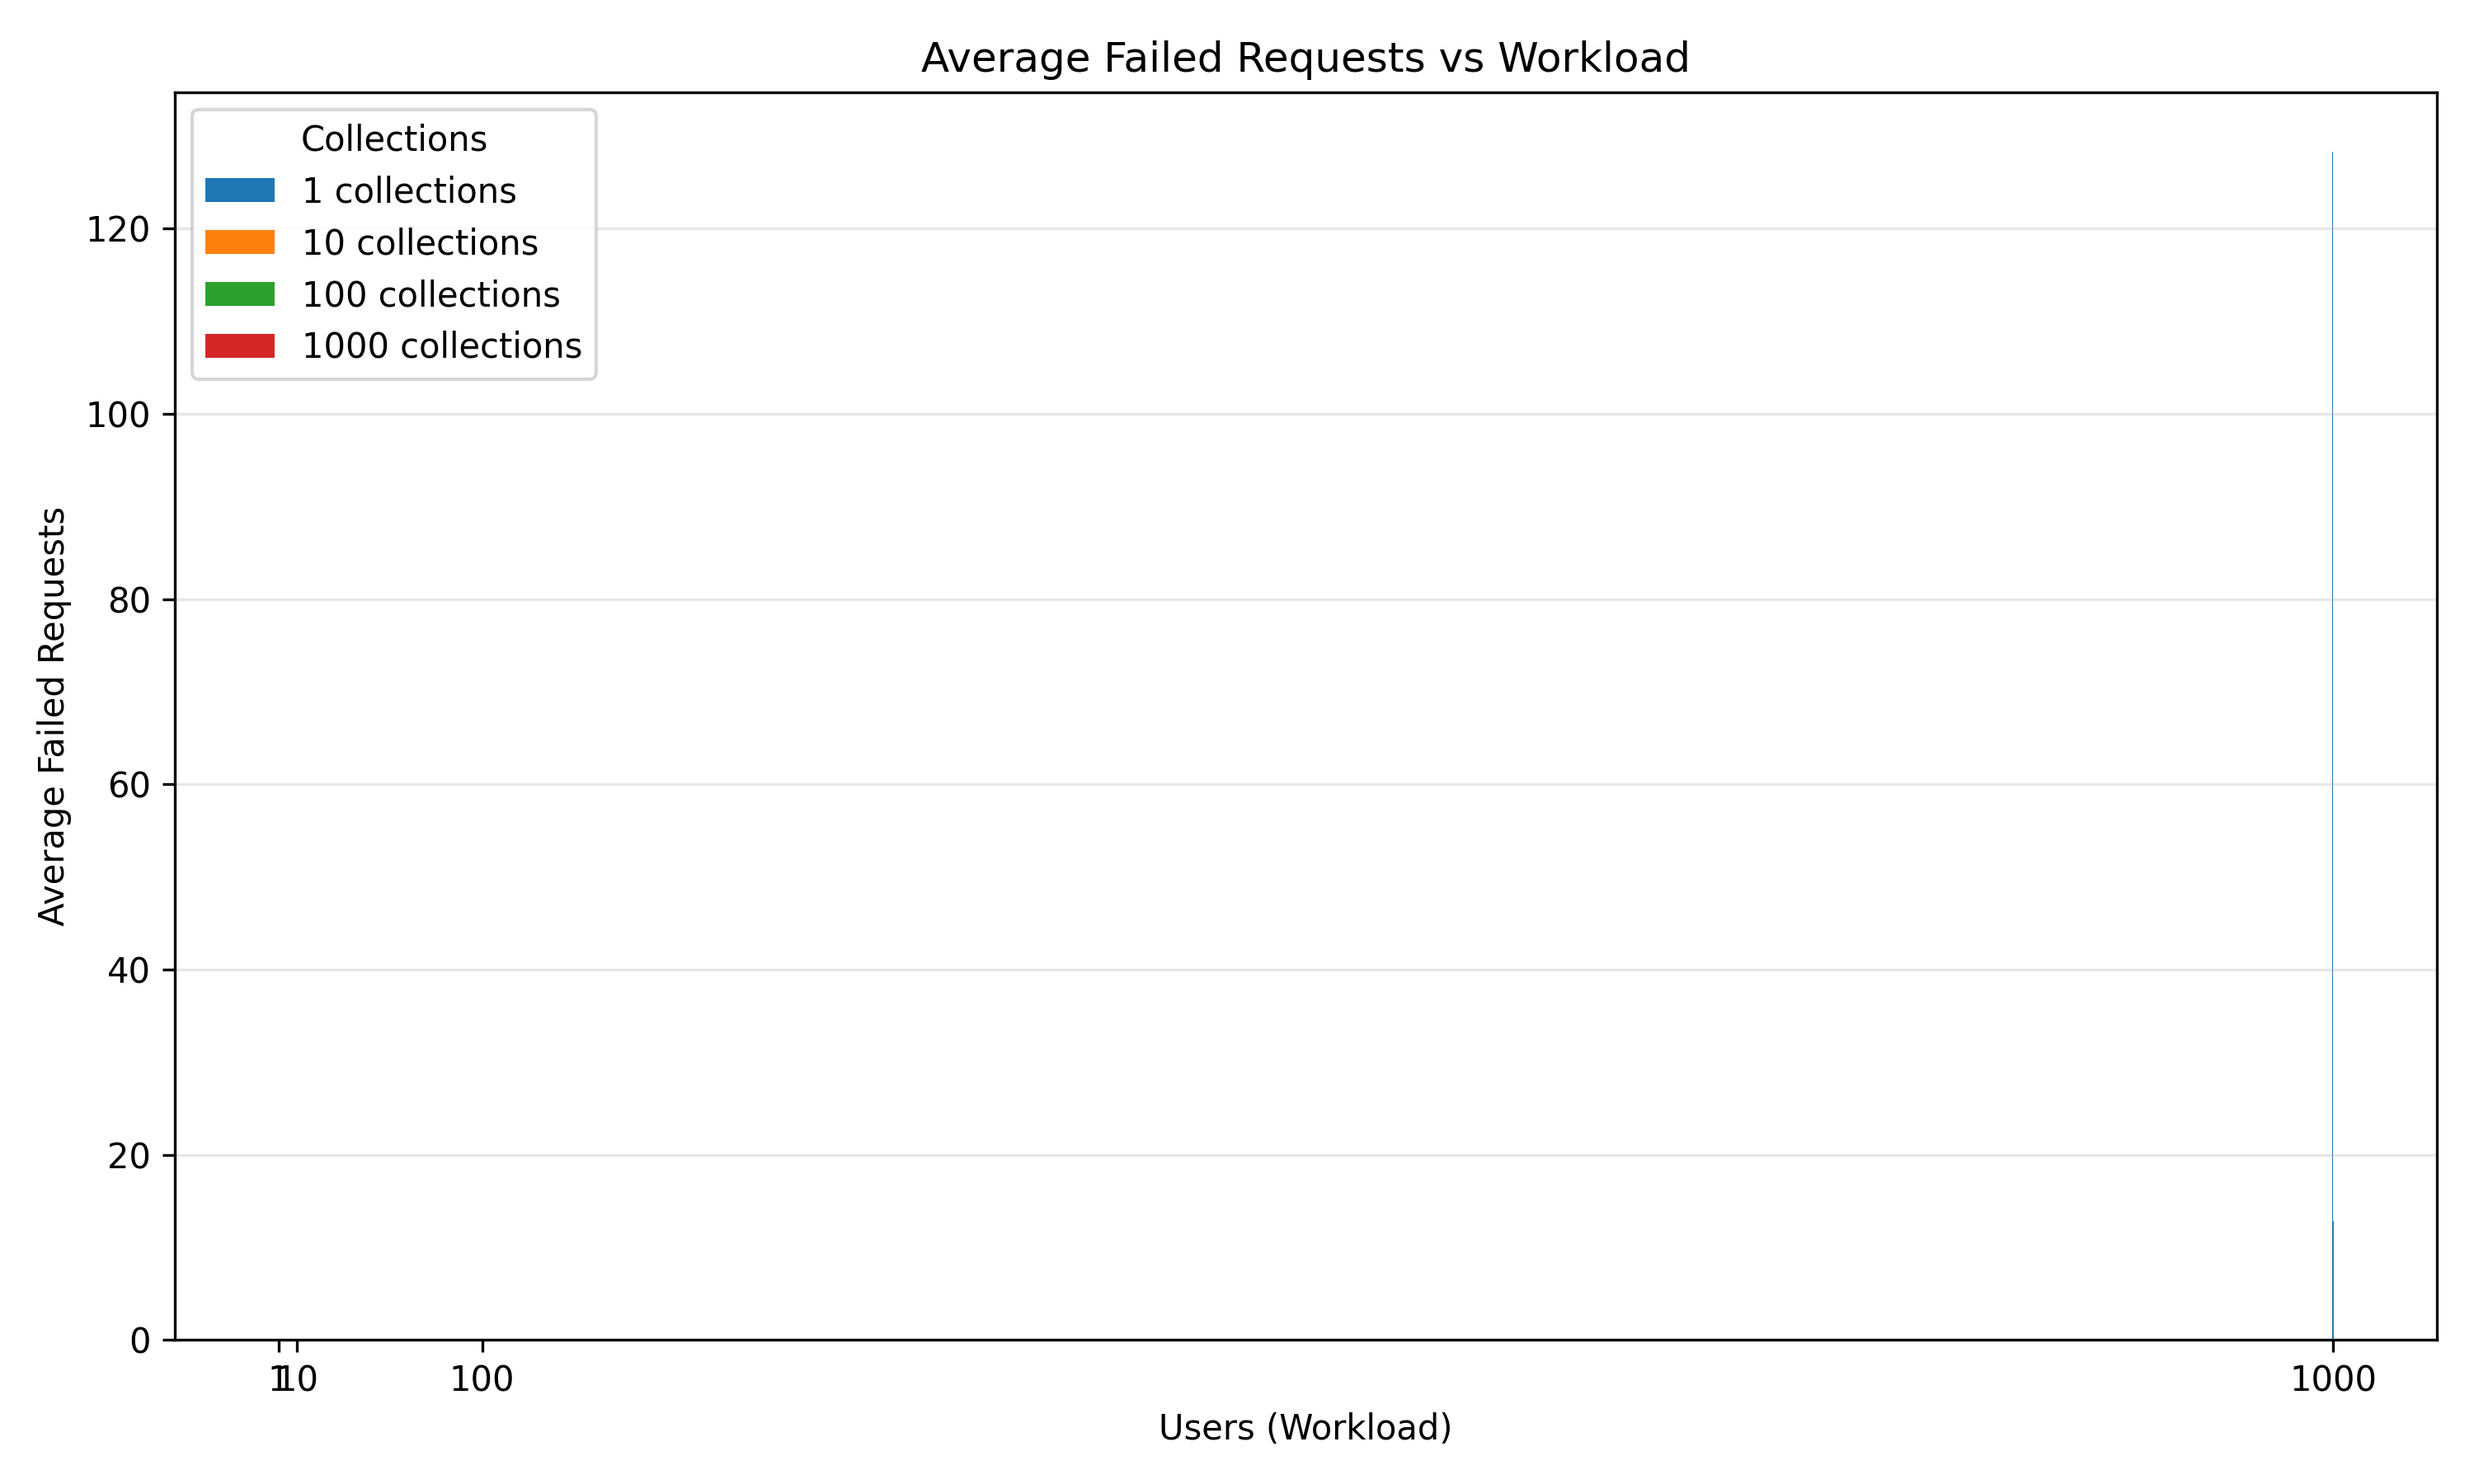
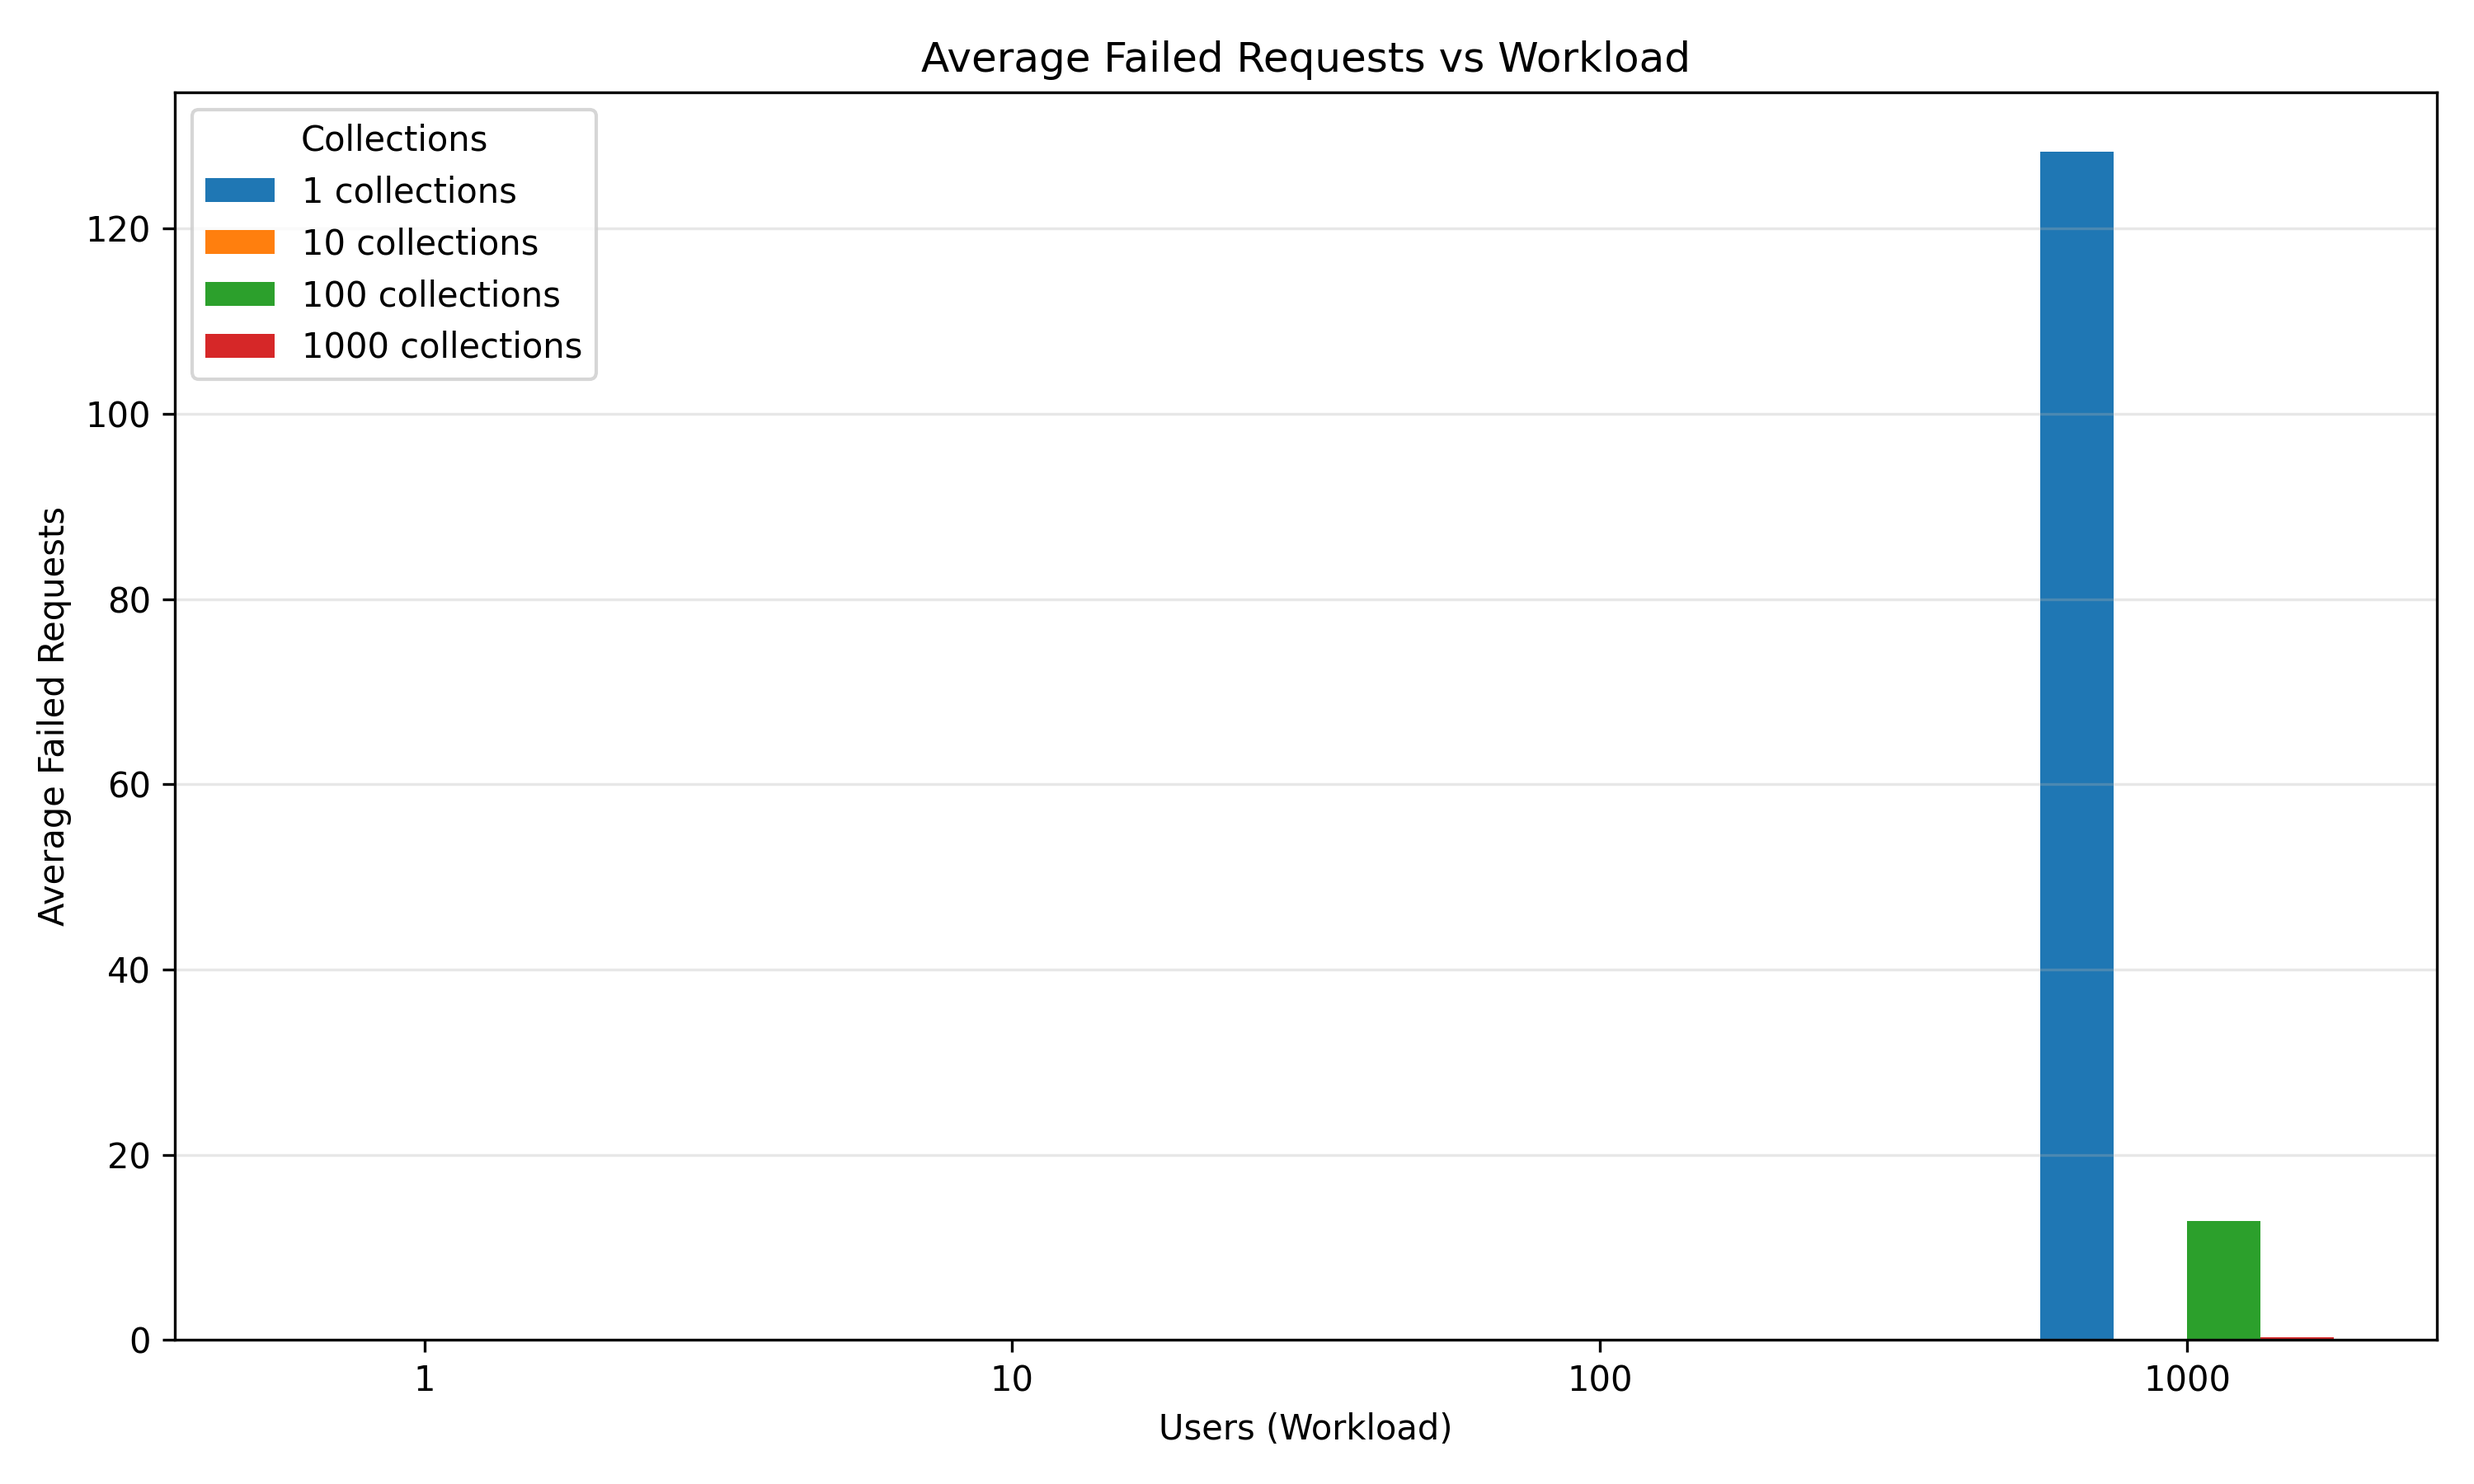
Fix failed request plot

diff --git a/ermes_benchmark/micro_bench/graph_generator.py b/ermes_benchmark/micro_bench/graph_generator.py
@@ -257,33 +257,39 @@ def plot_interaction_with_iqr_q2(aggregated_data, save_path=None):
 
 
 def plot_failed_requests_bar(aggregated_data, save_path=None):
-    users_list = sorted(aggregated_data.keys())
+    users_list = sorted(aggregated_data.keys()) # Es: [10, 100, 1000]
+
     collections_list = set()
     for u in aggregated_data:
         collections_list.update(aggregated_data[u].keys())
     collections_list = sorted(collections_list)
 
-    width = 0.8 / len(collections_list)
+    x_indexes = np.arange(len(users_list))
+    total_width = 0.5
+    bar_width = total_width / len(collections_list)
 
     fig, ax = plt.subplots(figsize=(10, 6))
 
-    for i, collections in enumerate(collections_list):
-        xs, failed_vals = [], []
+    for i, collection in enumerate(collections_list):
+        failed_vals = []
 
-        for users in users_list:
-            if collections in aggregated_data[users]:
-                df = aggregated_data[users][collections]
-                failed_vals.append(float(df["FailedRequests"]))
-                xs.append(users)
+        for user in users_list:
+            if collection in aggregated_data[user]:
+                val = float(aggregated_data[user][collection]["FailedRequests"])
+            else:
+                val = 0
+            failed_vals.append(val)
 
-        if xs:
-            xs_offset = np.array(xs) - 0.4 + i * width + width / 2
-            ax.bar(xs_offset, failed_vals, width=width, label=f"{collections} collections")
+        offset = (i - (len(collections_list) - 1) / 2) * bar_width
+        ax.bar(x_indexes + offset, failed_vals, width=bar_width, label=f"{collection} collections")
 
     ax.set_xlabel("Users (Workload)")
     ax.set_ylabel("Average Failed Requests")
     ax.set_title("Average Failed Requests vs Workload")
-    ax.set_xticks(users_list)
+
+    ax.set_xticks(x_indexes)
+    ax.set_xticklabels(users_list)
+
     ax.legend(title="Collections")
     ax.grid(axis='y', alpha=0.3)
     fig.tight_layout()
@@ -294,7 +300,6 @@ def plot_failed_requests_bar(aggregated_data, save_path=None):
 
     plt.close(fig)
     return fig, ax
-
 
 # Disable pycache generation
 sys.dont_write_bytecode = True
